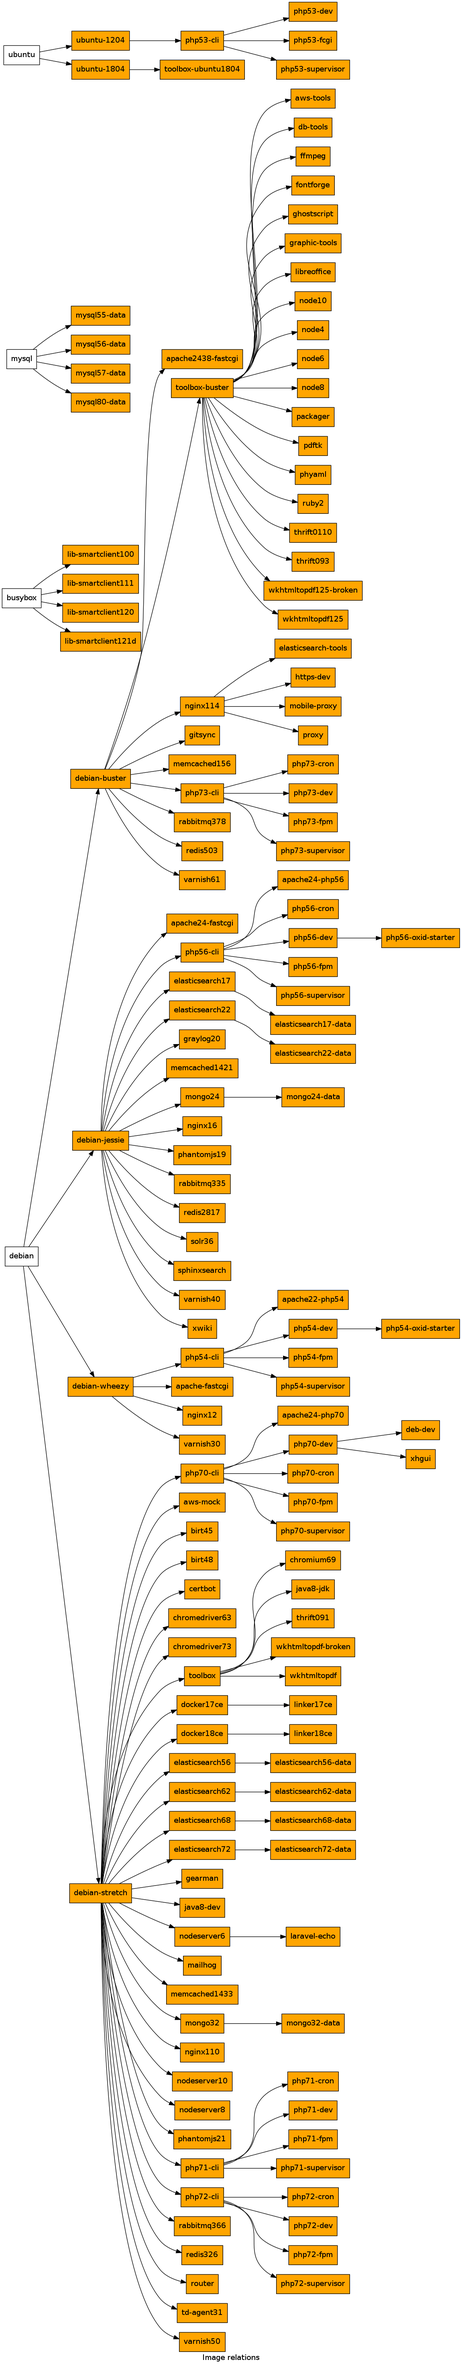
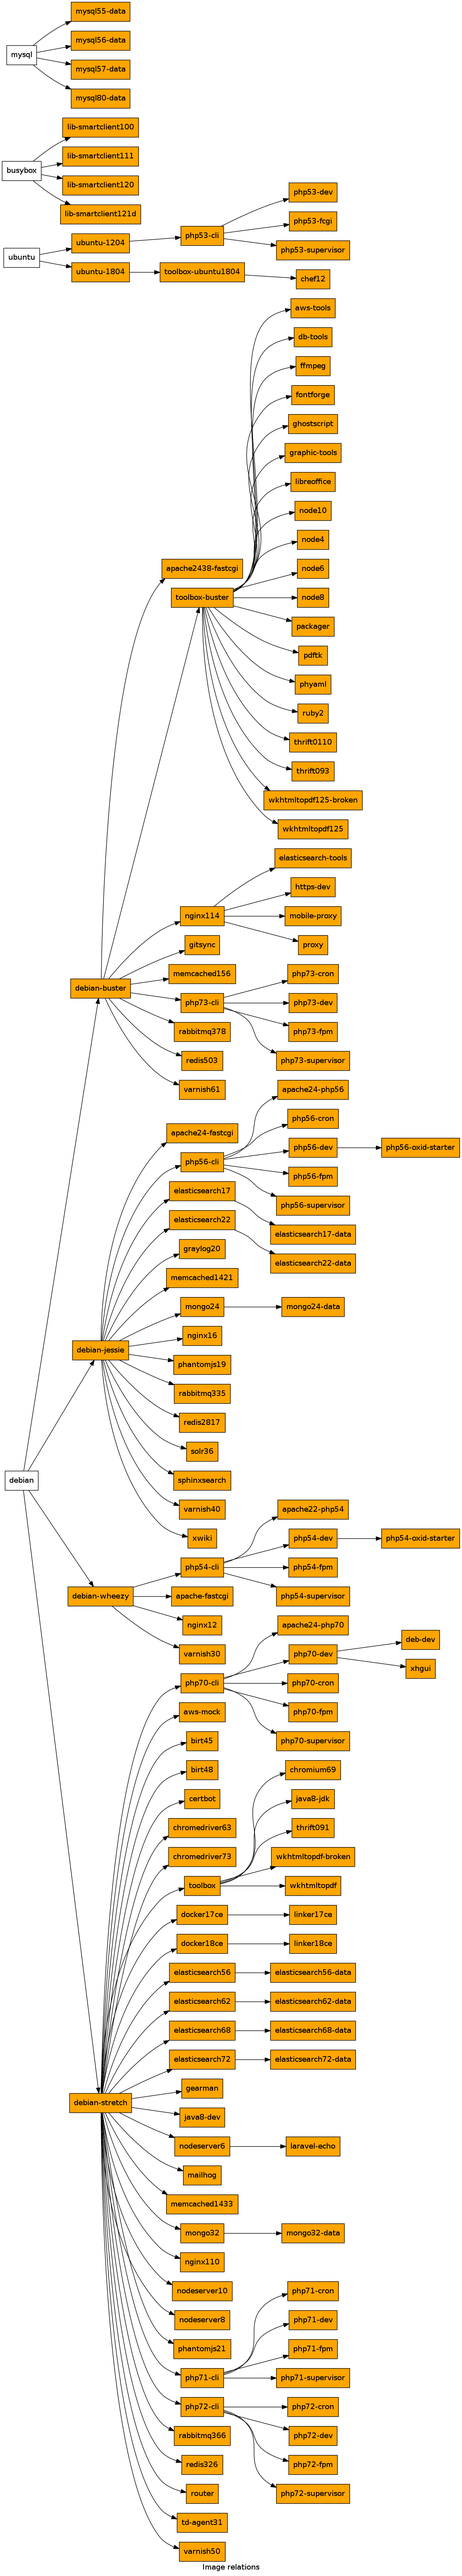
new chef12 image

diff --git a/chef12/README.md b/chef12/README.md
@@ -1,0 +1,164 @@
+## Node.js toolbox
+
+### Info
+This is an image of Chefdk 1.2.22 version
+
+### Global npm packages
+This image has pre-installed Chef development tools
+
+ - Chef
+ - Berkshelf
+ - Test Kitchen
+ - ChefSpec
+ - Foodcritic
+ - Delivery CLI
+ - Push Jobs Client
+
+### Configuration
+Available binary paths for export:
+
+- /usr/bin/chef
+- /usr/bin/chef-solo
+- /usr/bin/chef-apply
+- /usr/bin/chef-client
+- /usr/bin/chef-shell
+
+### The `chef` Command
+
+Our goal is for `chef` to become a workflow tool that builds on the
+ideas of Berkshelf to provide an awesome experience that encourages
+quick iteration and testing (and makes those things easy) and provides a
+way to easily, reliably, and repeatably roll out new automation code to
+your infrastructure.
+
+While we've got a long way to go before we reach that goal we do have
+some helpful bits of functionality already included in the `chef`
+command:
+
+#### `chef generate`
+The generate subcommand generates skeleton Chef code
+layouts so you can skip repetitive boilerplate and get down to
+automating your infrastructure quickly. Unlike other generators, it only
+generates the minimum required files when creating a cookbook so you can
+focus on the task at hand without getting overwhelmed by stuff you don't
+need.
+
+The following generators are built-in:
+
+* `chef generate app` Creates an "application" layout that supports
+multiple cookbooks. This is a somewhat experimental compromise between
+the one-repo-per-cookbook and monolithic-chef-repo styles of cookbook
+management.
+
+* `chef generate cookbook` Creates a single cookbook.
+* `chef generate recipe` Creates a new recipe file in an existing
+cookbook.
+* `chef generate attribute` Creates a new attributes file in an existing
+cookbook.
+* `chef generate template` Creates a new template file in an existing
+cookbook. Use the `-s SOURCE` option to copy a source file's content to
+populate the template.
+* `chef generate file` Creates a new cookbook file in an existing
+cookbook. Supports the `-s SOURCE` option similar to template.
+* `chef generate lwrp` Creates a new LWRP resource and provider in an
+existing cookbook.
+
+The `chef generate` command also accepts additional `--generator-arg key=value`
+pairs that can be used to supply ad-hoc data to a generator cookbook.
+For example, you might specify `--generator-arg database=mysql` and then only
+write a template for `recipes/mysql.rb` if `context.database == 'mysql'`.
+
+#### `chef gem`
+`chef gem` is a wrapper command that manages installation and updating
+of rubygems for the Ruby installation embedded in the ChefDK package.
+This allows you to install knife plugins, Test Kitchen drivers, and
+other Ruby applications that are not packaged with ChefDK.
+
+Gems are installed to a `.chefdk` directory in your home directory; any
+executables included with a gem you install will be created in
+`~/.chefdk/gem/ruby/2.1.0/bin`. You can run these executables with
+`chef exec`, or use `chef shell-init` to add ChefDK's paths to your
+environment. Those commands are documented below.
+
+### `chef exec`
+`chef exec <command>` runs any arbitrary shell command with the PATH
+environment variable and the ruby environment variables (`GEM_HOME`,
+`GEM_PATH`, etc.) setup to point at the embedded ChefDK omnibus environment.
+
+### `chef shell-init`
+`chef shell-init SHELL_NAME` emits shell commands that modify your
+environment to make ChefDK your primary ruby. It supports bash, zsh,
+fish and PowerShell (posh). For more information to help you decide if
+this is desirable and instructions, see "Using ChefDK as Your Primary
+Development Environment" below.
+
+### `chef install`
+`chef install` reads a `Policyfile.rb` document, which contains a
+`run_list` and optional cookbook version constraints, finds a set of
+cookbooks that provide the desired recipes and meet dependency
+constraints, and emits a `Policyfile.lock.json` describing the expanded
+run list and locked cookbook set. The `Policyfile.lock.json` can be used
+to install the cookbooks on another machine. The policy lock can be
+uploaded to a Chef Server (via the `chef push` command) to apply the
+expanded run list and locked cookbook set to nodes in your
+infrastructure. See the POLICYFILE_README.md for further details.
+
+### `chef push`
+`chef push POLICY_GROUP` uploads a Policyfile.lock.json along with the cookbooks it
+references to a Chef Server. The policy lock is applied to a
+`POLICY_GROUP`, which is a set of nodes that share the same run list and
+cookbook set. This command operates in compatibility mode and has the
+same caveats as `chef install`. See the POLICYFILE_README.md for further
+details.
+
+### `chef update`
+`chef update` updates a Policyfile.lock.json with the latest cookbooks
+from upstream sources. It supports an `--attributes` flag which will
+cause only attributes from the Policyfile.rb to be updated.
+
+### `chef diff`
+`chef diff` shows an itemized diff between Policyfile locks. It can
+compare Policyfile locks from local disk, git, and/or the Chef Server,
+based on the options given.
+
+#### `chef verify`
+`chef verify` tests the embedded applications. By default it runs a
+quick "smoke test" to verify that the embedded applications are
+installed correctly and can run basic commands. As an end user this is
+probably all you'll ever need, but `verify` can also optionally run unit
+and integration tests by supplying the `--unit` and `--integration`
+flags, respectively.
+
+You can also focus on a specific suite of tests by passing it as an argument.
+For example `chef verify git` will only run the smoke tests for the `git` suite.
+
+*WARNING:* The integration tests will do dangerous things like start
+HTTP servers with access to your filesystem and even create users and
+groups if run with sufficient privileges. The tests may also be
+sensitive to your machine's configuration. If you choose to run these,
+we recommend to only run them on dedicated, isolated hosts (we do this
+in our build cluster to verify each build).
+
+### Sample configuration
+```
+version: '2.4'
+services:
+  dev:
+    image: nfqlt/php72-dev
+    volumes:
+      - './src:/home/project/src'
+    volumes_from:
+      - 'service:cheftools:rw'
+    environment:
+      NFQ_REMOTE_TOOL_CHEFTOOLS: >
+        /usr/bin/chef
+        /usr/bin/chef-solo
+        /usr/bin/chef-apply
+        /usr/bin/chef-client
+        /usr/bin/chef-shell
+  cheftools:
+    image: nfqlt/chef12
+    volumes_from:
+      - './src:/home/project/src'
+      - /tmp
+```
